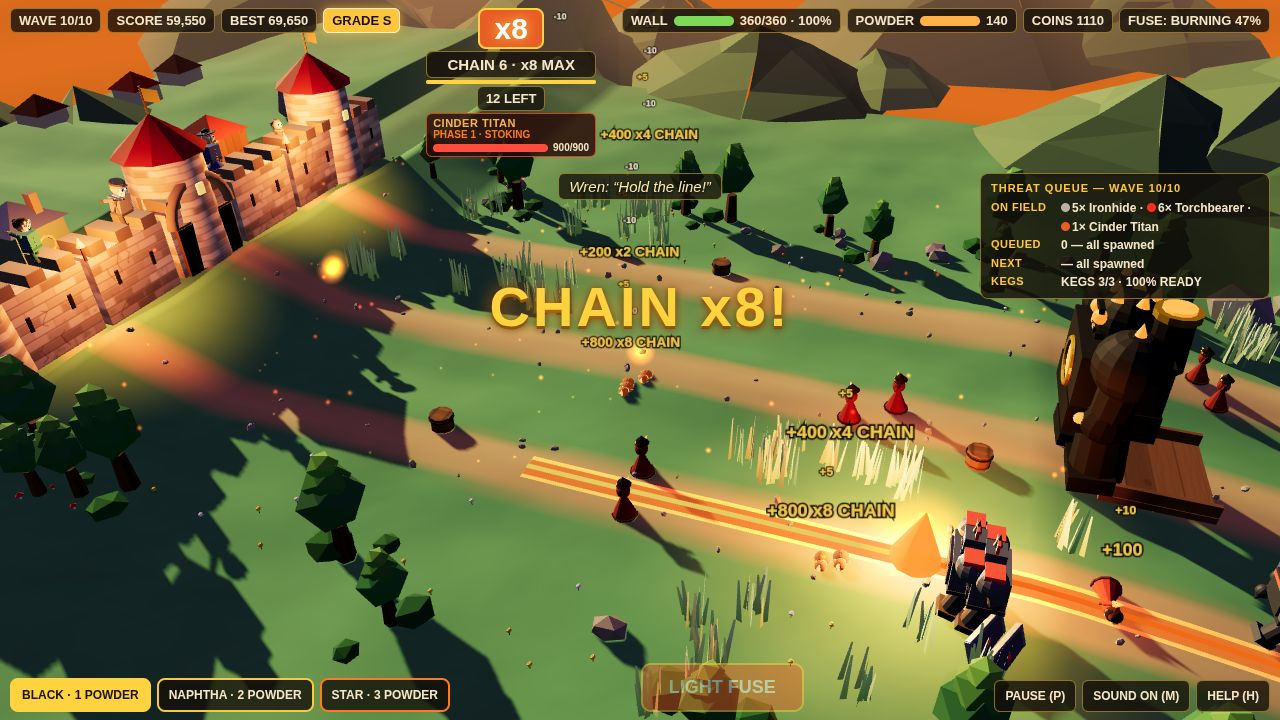
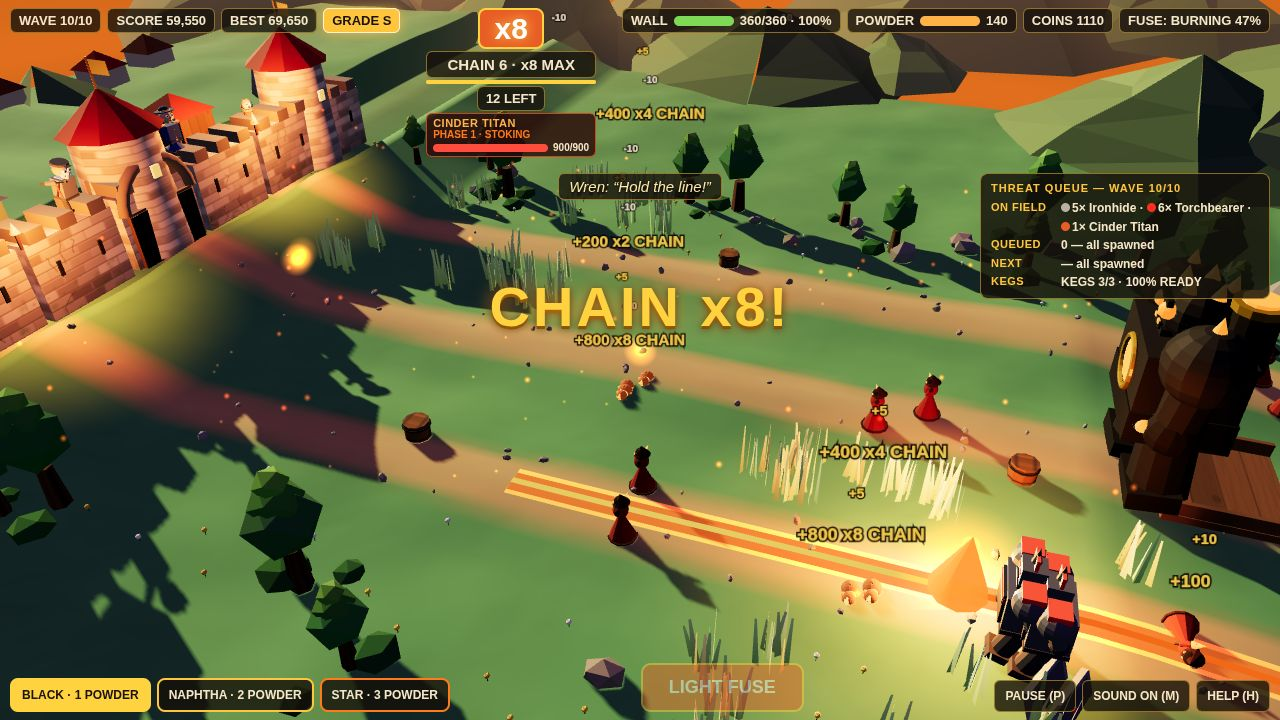
R3E2: action camera closer (Mark 00:25 WIB — 'deketin screenshot nya dikit')
- CAMERA_PRESETS.action: N3 [19,39,54]->[0,0,0] -> C10 [17.1,35.1,48.6]->[0,0,0]
  (same ray/look-at, 10% closer). Probe r3e2-cam-probe.cjs froze the SAME
  x8 state and shot N3 + C10/C20/C30/C40; all 5 viewed.
- C20 loses most of the Titan out of frame, C30/C40 lose it entirely
  (+ popup/HUD collisions); C10 is the max the same-ray approach allows.
- HONEST GAPS: defenders only ~9% bigger (Thom reads as a person with
  face+cap, muzzle glow bigger — modest, not dramatic); Titan's right
  flank is SLIGHTLY CUT at the frame edge (right-edge strip proof in
  verify-3d/proof-r3e2/cmp-right-edge.jpg). If Mark still says 'sama aja',
  the next lever is a different camera angle or a re-staged freeze, not
  more zoom.
- Numbers EXACTLY unchanged: BEST 69,650 / action 59,550 / draft 21,050 /
  results S 69,650. Determinism --twice MATCH 5/5, 0 console errors.
  Title/draft/results byte-identical; only the action shot changed
  (108e5ed6 -> 751140a3, byte-identical to the probe cam-C10 frame).

diff --git a/game/src/render3d.js b/game/src/render3d.js
@@ -126,7 +126,26 @@ const CAMERA_PRESETS = {
   // the wall entirely and the CHAIN chip collides with a +400 popup.
   // N3 [19,39,54]->[0,0,0] wins: Titan fully in frame (~180px), same 11
   // enemies in frame as B, wall + defenders slightly bigger. N3 it is.
-  action: { pos: [19, 39, 54], target: [0, 0, 0] },
+  //
+  // R3E2 (Mark 00:25 WIB, "sama aja, agak di deketin screenshot nya dikit"):
+  // probe r3e2-cam-probe.cjs froze the SAME x8 state and shot N3 + 4 cameras
+  // closer along the SAME ray (same look-at [0,0,0]): C10 [17.1,35.1,48.6],
+  // C20 [15.2,31.2,43.2], C30 [13.3,27.3,37.8], C40 [11.4,23.4,32.4].
+  // HARD CEILING FOUND: the Titan sits ~28 deg off-axis at N3 (half-FOV
+  // 36.4 deg), so every step closer pushes its body toward the right edge.
+  // C20 cuts most of the Titan out of frame, C30/C40 lose it entirely (and
+  // C30/C40 also collide popups with the CHAIN banner + SOUND/HELP buttons).
+  // C10 is the max the same-ray approach allows: defenders ~9% bigger on
+  // screen (Thom reads as a person with face+cap, muzzle glow bigger),
+  // BUT the Titan's right flank is SLIGHTLY CUT at the frame edge (proven
+  // by the 3x right-edge strip, proof-r3e2/cmp-right-edge.jpg — head,
+  // furnace ring and platform stay in frame, the right shoulder/arm is
+  // sliced). No same-ray camera makes the defenders clearly big AND keeps
+  // the Titan whole: 10% is the ceiling, and it is a modest gain, not a
+  // dramatic one. If Mark still says "sama aja", the next lever is NOT
+  // more zoom — it is a different camera angle (wall-side shot, Titan
+  // trades out) or a re-staged freeze moment. C10 it is, cut disclosed.
+  action: { pos: [17.1, 35.1, 48.6], target: [0, 0, 0] },
   draft: { pos: [10, 34, 52], target: [-16, 2, 0] },
   results: { pos: [6, 28, 54], target: [-22, 4, 0] }
 };
